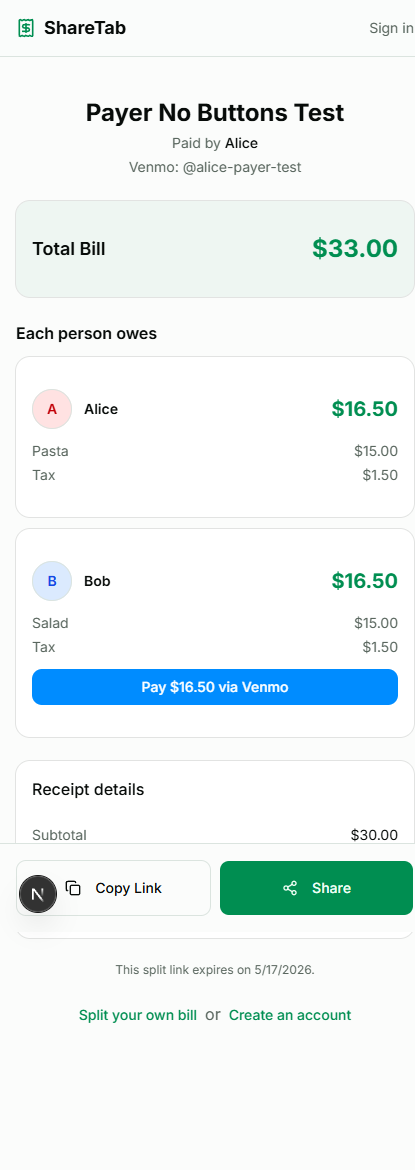
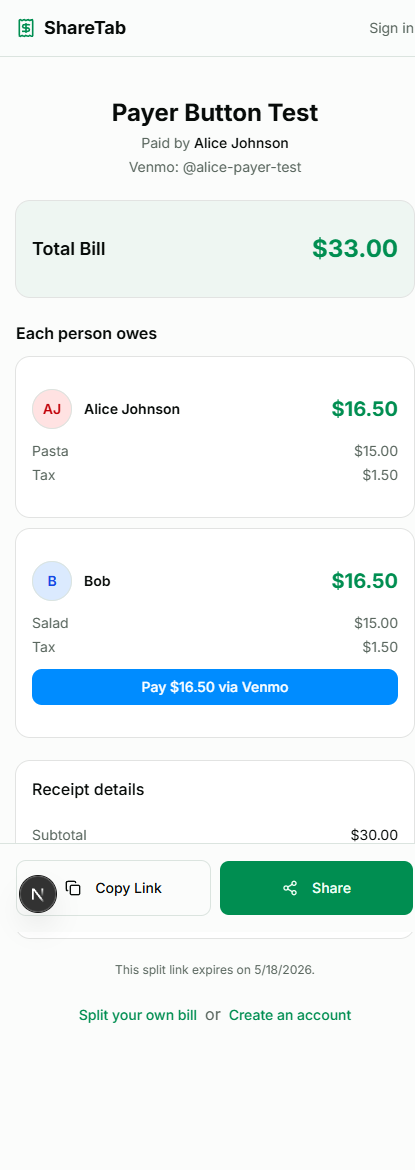
fix: hide Venmo pay buttons from the payer (#122)
* fix: hide Venmo pay buttons from the payer

The payer should never see pay buttons — they point to the payer's own
Venmo handle, so clicking them would send money to themselves.

- Split page: add isPayer flag from server, hide buttons when true
- Claim page: compare myPersonIndex to paidByIndex, hide when match
- Updated e2e test to verify payer sees zero pay buttons

* docs: update screenshots for payer-no-buttons fix

* fix: derive isPayer from name matching, not creator ID

isPayer now compares viewer's profile name to the payer person's name
using normalizeGuestName, rather than assuming creator === payer.
Updated test name to reflect zero-buttons-for-payer behavior.

* fix: use session name for isPayer instead of DB query

Avoids extra DB roundtrip. Name matching is an approximation — a
future improvement could store payerUserId on the split record.

Changed region(s): [[0.2024, 0.0615, 0.8386, 0.1231], [0.2892, 0.3385, 0.4337, 0.3692], [0.1157, 0.3385, 0.1446, 0.3692]]

diff --git a/e2e/venmo-deeplink.spec.ts b/e2e/venmo-deeplink.spec.ts
@@ -274,7 +274,7 @@ test.describe("Venmo deeplink payments", () => {
     await browserCtx.close();
   });
 
-  test("payer card has no pay button, non-payer cards do", async ({ browser }) => {
+  test("payer sees zero pay buttons, guest sees them on non-payer cards", async ({ browser }) => {
     const aliceCtx = await authedContext(users.alice.email, users.alice.password);
     await trpcMutation(aliceCtx, "auth.updateProfile", { venmoUsername: "alice-payer-test" });
 
@@ -309,8 +309,9 @@ test.describe("Venmo deeplink payments", () => {
     await creatorPage.goto(`/en/split/${shareToken}`);
 
     await expect(creatorPage.getByTestId("venmo-handle-input")).toBeVisible({ timeout: 15000 });
-    // Bob's card (non-payer) has pay button, Alice's card (payer) does not
-    await expect(creatorPage.locator('[data-testid^="venmo-pay-"]')).toHaveCount(1, { timeout: 5000 });
+    // Payer sees NO pay buttons — they all point to the payer's own handle
+    await expect(creatorPage.locator('[data-testid^="venmo-pay-"]')).toHaveCount(0);
+    await creatorPage.screenshot({ path: "docs/screenshots/venmo-payer-no-buttons.png", fullPage: true });
     await creatorPage.screenshot({ path: "docs/screenshots/venmo-creator-payer-view.png", fullPage: true });
 
     await creatorPage.close();

diff --git a/src/app/[locale]/split/[token]/claim/page.tsx b/src/app/[locale]/split/[token]/claim/page.tsx
@@ -543,7 +543,7 @@ export default function ClaimPage({
                       {formatCents(person.total, currency, locale)}
                     </span>
                   </div>
-                  {venmoSetting.data?.enabled && currency === "USD" && isValidVenmoHandle(venmoHandle) && person.personIndex !== data.paidByIndex && (
+                  {venmoSetting.data?.enabled && currency === "USD" && isValidVenmoHandle(venmoHandle) && myPersonIndex !== data.paidByIndex && person.personIndex !== data.paidByIndex && (
                     <a
                       href={buildVenmoPayUrl(venmoHandle, person.total, `ShareTab: ${data.receiptData.merchantName ?? 'Bill split'}`)!}
                       target="_blank"

diff --git a/src/server/trpc/routers/guest.ts b/src/server/trpc/routers/guest.ts
@@ -466,6 +466,12 @@ export const guestRouter = createTRPCRouter({
         paidByIndex: split.paidByIndex,
         payerVenmoHandle: split.payerVenmoHandle,
         isCreator: !!split.userId && split.userId === ctx.session?.user?.id,
+        isPayer: (() => {
+          if (!ctx.session?.user?.name) return false;
+          const people = split.people as GuestSessionPerson[];
+          const payerName = people[split.paidByIndex]?.name;
+          return !!payerName && normalizeGuestName(ctx.session.user.name) === normalizeGuestName(payerName);
+        })(),
         createdAt: split.createdAt,
         expiresAt: split.expiresAt,
       };

diff --git a/src/app/[locale]/split/[token]/page.tsx b/src/app/[locale]/split/[token]/page.tsx
@@ -221,7 +221,7 @@ export default function SharedSplitPage({
                   )}
                 </div>
 
-                {venmoSetting.data?.enabled && currency === "USD" && isValidVenmoHandle(venmoHandle) && person.personIndex !== data.paidByIndex && (
+                {venmoSetting.data?.enabled && currency === "USD" && isValidVenmoHandle(venmoHandle) && !split.data?.isPayer && person.personIndex !== data.paidByIndex && (
                   <a
                     href={buildVenmoPayUrl(venmoHandle, person.total, `ShareTab: ${data.receiptData.merchantName ?? 'Bill split'}`)!}
                     target="_blank"
